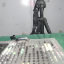
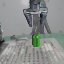
support dynamic bg updating

diff --git a/mujoco_playground/_src/wrapper_torch.py b/mujoco_playground/_src/wrapper_torch.py
@@ -17,9 +17,11 @@
 from collections import deque
 import functools
 import os
+import tempfile
 from typing import Any
 
 import jax
+import mujoco
 import numpy as np
 
 try:
@@ -96,6 +98,7 @@ class RSLRLBraxWrapper(VecEnv):
       randomization_fn=None,
       render_callback=None,
       device_rank=None,
+      full_reset: bool | None = None,
   ):
     import torch  # pytype: disable=import-error # pylint: disable=redefined-outer-name,unused-import,import-outside-toplevel
 
@@ -125,11 +128,32 @@ class RSLRLBraxWrapper(VecEnv):
     else:
       v_randomization_fn = None
 
+    # NOTE on memory: BraxAutoResetWrapper(full_reset=True) computes env.reset
+    # for the entire batch on every step, then selects reset_state for done envs.
+    # That can substantially increase peak JAX GPU memory (often enough to OOM).
+    # So we only enable full_reset by default when it's actually needed.
+    if full_reset is None:
+      needs_full_reset = False
+      try:
+        c = env.unwrapped._config
+        if hasattr(c, 'vision_config'):
+          # dynamic_bg relies on per-episode camera randomization being applied
+          # on auto-reset for done envs.
+          needs_full_reset = bool(getattr(c.vision_config, 'dynamic_bg', False))
+          # Allow explicit override via config.
+          if getattr(c.vision_config, 'full_reset', None) is not None:
+            needs_full_reset = bool(c.vision_config.full_reset)
+      except Exception:
+        needs_full_reset = False
+
+      full_reset = bool(randomization_fn is not None and needs_full_reset)
+
     self.env = wrapper.wrap_for_brax_training(
         env,
         episode_length=episode_length,
         action_repeat=action_repeat,
         randomization_fn=v_randomization_fn,
+        full_reset=full_reset,
     )
 
     self.render_callback = render_callback
@@ -247,6 +271,45 @@ def create_rgb_image(num, rgb_color, image_size):
 class BatchSplatWrapper(RSLRLBraxWrapper):
   """Wrapper for Brax environments that interop with torch and use 3DGS BatchSplatRenderer."""
 
+  def _ensure_nonempty_body_gaussians(
+      self, mj_model, body_gaussians, *, purpose: str, warn: bool = True
+  ):
+    if body_gaussians:
+      return body_gaussians
+
+    # gaussian_renderer expects at least one gaussian; provide an invisible dummy.
+    target_body = mujoco.mj_id2name(mj_model, mujoco.mjtObj.mjOBJ_BODY, 0)  # world
+
+    with tempfile.NamedTemporaryFile(suffix=".ply", mode="w", delete=False) as f:
+      f.write("ply\n")
+      f.write("format ascii 1.0\n")
+      f.write("element vertex 1\n")
+      f.write("property float x\n")
+      f.write("property float y\n")
+      f.write("property float z\n")
+      f.write("property float f_dc_0\n")
+      f.write("property float f_dc_1\n")
+      f.write("property float f_dc_2\n")
+      f.write("property float opacity\n")
+      f.write("property float scale_0\n")
+      f.write("property float scale_1\n")
+      f.write("property float scale_2\n")
+      f.write("property float rot_0\n")
+      f.write("property float rot_1\n")
+      f.write("property float rot_2\n")
+      f.write("property float rot_3\n")
+      f.write("end_header\n")
+      # opacity=0 => invisible
+      f.write("0 0 0 0 0 0 0 0.01 0.01 0.01 1 0 0 0\n")
+      temp_ply_path = f.name
+
+    if warn:
+      print(
+        f"Warning: body_gaussians is empty for {purpose}. "
+        f"Using invisible dummy gaussian at {temp_ply_path} attached to body '{target_body}'."
+      )
+    return {target_body: temp_ply_path}
+
   def __init__(
       self,
       env,
@@ -257,6 +320,7 @@ class BatchSplatWrapper(RSLRLBraxWrapper):
       randomization_fn=None,
       render_callback=None,
       device_rank=None,
+      full_reset: bool | None = None,
   ):
     super().__init__(
         env,
@@ -267,6 +331,7 @@ class BatchSplatWrapper(RSLRLBraxWrapper):
         randomization_fn,
         render_callback,
         device_rank,
+        full_reset,
     )
     self._init_renderer()
 
@@ -279,18 +344,24 @@ class BatchSplatWrapper(RSLRLBraxWrapper):
     background_ply = None
     bg_img_template = None
 
+    self.dynamic_bg = False
+    self.pixels_uint8 = False
+
     if hasattr(self.env.unwrapped, '_config'):
       c = self.env.unwrapped._config
       if hasattr(c, 'vision_config'):
         self.height = c.vision_config.render_height
         self.width = c.vision_config.render_width
+        self.dynamic_bg = bool(getattr(c.vision_config, 'dynamic_bg', False))
+        self.pixels_uint8 = bool(getattr(c.vision_config, 'pixels_uint8', False))
+        background_ply = getattr(c.vision_config, 'background', None)
         if hasattr(c.vision_config, 'body_gaussians'):
           body_gaussians = c.vision_config.body_gaussians
           if hasattr(body_gaussians, 'to_dict'):
             body_gaussians = body_gaussians.to_dict()
         else:
           raise ValueError("BatchSplatWrapper requires body_gaussians in vision_config.")
-        if getattr(c.vision_config, 'bg_img', None) is not None:
+        if (not self.dynamic_bg) and getattr(c.vision_config, 'bg_img', None) is not None:
           bg = c.vision_config.bg_img
           if isinstance(bg, tuple):
             bg = create_rgb_image(mj_model.ncam, bg, (self.height, self.width))
@@ -317,18 +388,74 @@ class BatchSplatWrapper(RSLRLBraxWrapper):
           
           bg_img_template = bg
 
-    cfg = BatchSplatConfig(
-      body_gaussians=body_gaussians,
-      background_ply=getattr(c.vision_config, 'background', None),
-      minibatch=min(self.batch_size, int(256 // mj_model.ncam)) #256
+    if self.dynamic_bg and background_ply is None:
+      raise ValueError(
+          "vision_config.dynamic_bg=True requires vision_config.background to be set "
+          "(a background .ply used to re-render bg each reset)."
+      )
+
+    fg_body_gaussians = self._ensure_nonempty_body_gaussians(
+        mj_model, body_gaussians, purpose="foreground renderer"
     )
-    self.renderer = MjxBatchSplatRenderer(cfg, mj_model=mj_model)
+    # # Important for VRAM: background_ply can be large. If we're using a static
+    # # image background (bg_img) and dynamic_bg is off, we should not also load
+    # # the 3DGS background ply into the foreground renderer.
+    # using_static_bg_img = (not self.dynamic_bg) and (bg_img_template is not None)
+    # if self.dynamic_bg:
+    #   fg_background_ply = None
+    # else:
+    #   fg_background_ply = None if using_static_bg_img else background_ply
+    fg_background_ply = None if self.dynamic_bg else background_ply
+    fg_cfg = BatchSplatConfig(
+        body_gaussians=fg_body_gaussians,
+        background_ply=fg_background_ply,
+        minibatch=min(self.batch_size, int(256 // mj_model.ncam)),
+    )
+    self.renderer_fg = MjxBatchSplatRenderer(fg_cfg, mj_model=mj_model)
+    self.renderer = self.renderer_fg
     self.fovy_np = np.array(mj_model.cam_fovy)[None, :]
 
-    if bg_img_template is not None:
-      self.bg_img = bg_img_template.to(self.renderer.device).unsqueeze(0).expand(self.batch_size, -1, -1, -1, -1).contiguous()
+    self.renderer_bg = None
+    if self.dynamic_bg:
+      bg_body_gaussians = self._ensure_nonempty_body_gaussians(
+        mj_model, {}, purpose="background renderer", warn=False
+      )
+      bg_cfg = BatchSplatConfig(
+          body_gaussians=bg_body_gaussians,
+          background_ply=background_ply,
+          minibatch=min(self.batch_size, int(256 // mj_model.ncam)),
+      )
+      self.renderer_bg = MjxBatchSplatRenderer(bg_cfg, mj_model=mj_model)
+
+    # Background image storage strategy:
+    # - dynamic_bg=True: per-env bg is required (camera pose may differ per env);
+    #   keep a batched float32 tensor.
+    # - dynamic_bg=False: bg is static; store only per-camera and broadcast at
+    #   render time to avoid an always-resident (B,ncam,H,W,3) allocation.
+    if self.dynamic_bg:
+      self.bg_img = torch.zeros(
+          (self.batch_size, mj_model.ncam, self.height, self.width, 3),
+          dtype=torch.float32,
+          device=self.renderer_fg.device,
+      )
+      self.bg_img_camera = None
     else:
-      self.bg_img = torch.zeros((self.batch_size, mj_model.ncam, self.height, self.width, 3), dtype=torch.float32, device=self.renderer.device)
+      if bg_img_template is not None:
+        self.bg_img_camera = bg_img_template.to(self.renderer_fg.device)
+      else:
+        self.bg_img_camera = torch.zeros(
+            (mj_model.ncam, self.height, self.width, 3),
+            dtype=torch.float32,
+            device=self.renderer_fg.device,
+        )
+      self.bg_img = None
+
+    if self.dynamic_bg:
+      self._bg_img_base = torch.zeros(
+          (self.batch_size, mj_model.ncam, self.height, self.width, 3),
+          dtype=torch.float32,
+          device=self.renderer_bg.device,
+      )
 
   def step(self, action):
     action = torch.clip(action, -1.0, 1.0)
@@ -340,9 +467,41 @@ class BatchSplatWrapper(RSLRLBraxWrapper):
     b_quat = _jax_to_torch(self.env_state.data.xquat)
     c_pos = _jax_to_torch(self.env_state.data.cam_xpos)
     c_xmat = _jax_to_torch(self.env_state.data.cam_xmat)
+
+    # If BraxAutoResetWrapper performed a full reset on done, the returned
+    # state.data for done envs is already the reset state with re-randomized
+    # camera pose. Refresh background for those envs to keep bg/fg consistent.
+    if self.dynamic_bg:
+      done_torch = _jax_to_torch(self.env_state.done).to(torch.bool)
+      if done_torch.any():
+        gsb_bg = self.renderer_bg.batch_update_gaussians(b_pos, b_quat)
+        bg_rgb, _ = self.renderer_bg.batch_env_render(
+            gsb_bg,
+            c_pos,
+            c_xmat,
+            self.height,
+            self.width,
+            self.fovy_np,
+            self._bg_img_base,
+        )
+        mask = done_torch.view(-1, 1, 1, 1, 1).to(bg_rgb.device)
+        # Only overwrite backgrounds for envs that ended this step.
+        self.bg_img = torch.where(mask, bg_rgb, self.bg_img)
     
-    gsb = self.renderer.batch_update_gaussians(b_pos, b_quat)
-    rgb, _ = self.renderer.batch_env_render(gsb, c_pos, c_xmat, self.height, self.width, self.fovy_np, self.bg_img)
+    gsb = self.renderer_fg.batch_update_gaussians(b_pos, b_quat)
+    if self.dynamic_bg:
+      bg_img = self.bg_img
+    else:
+      bg_img = self.bg_img_camera.unsqueeze(0).expand(
+          self.batch_size, -1, -1, -1, -1
+      )
+    rgb, _ = self.renderer_fg.batch_env_render(
+      gsb, c_pos, c_xmat, self.height, self.width, self.fovy_np, bg_img
+    )
+
+    rgb_obs = rgb
+    if self.pixels_uint8:
+      rgb_obs = (rgb_obs.clamp(0.0, 1.0) * 255.0).to(torch.uint8)
     
     # Construct observations
     critic_obs = None
@@ -359,12 +518,12 @@ class BatchSplatWrapper(RSLRLBraxWrapper):
     # RSL-RL usually expects a dict for complex obs.
     if isinstance(obs, dict):
       for i in range(self.env.mj_model.ncam):
-        obs[f'pixels/view_{i}'] = rgb[:, i]
+        obs[f'pixels/view_{i}'] = rgb_obs[:, i]
     else:
       # If obs was a tensor, convert to dict to add pixels
       obs = {"state": obs}
       for i in range(self.env.mj_model.ncam):
-        obs[f'pixels/view_{i}'] = rgb[:, i]
+        obs[f'pixels/view_{i}'] = rgb_obs[:, i]
 
     reward = _jax_to_torch(self.env_state.reward)
     done = _jax_to_torch(self.env_state.done)
@@ -405,10 +564,33 @@ class BatchSplatWrapper(RSLRLBraxWrapper):
     c_pos = _jax_to_torch(self.env_state.data.cam_xpos)
     c_xmat = _jax_to_torch(self.env_state.data.cam_xmat)
     
-    gsb = self.renderer.batch_update_gaussians(b_pos, b_quat)
-    fovy = np.array(self.env.mj_model.cam_fovy)[None, :]
-    
-    rgb, _ = self.renderer.batch_env_render(gsb, c_pos, c_xmat, self.height, self.width, fovy, self.bg_img)
+    if self.dynamic_bg:
+      gsb_bg = self.renderer_bg.batch_update_gaussians(b_pos, b_quat)
+      bg_rgb, _ = self.renderer_bg.batch_env_render(
+        gsb_bg,
+        c_pos,
+        c_xmat,
+        self.height,
+        self.width,
+        self.fovy_np,
+        self._bg_img_base,
+      )
+      self.bg_img = bg_rgb
+
+    gsb = self.renderer_fg.batch_update_gaussians(b_pos, b_quat)
+    if self.dynamic_bg:
+      bg_img = self.bg_img
+    else:
+      bg_img = self.bg_img_camera.unsqueeze(0).expand(
+          self.batch_size, -1, -1, -1, -1
+      )
+    rgb, _ = self.renderer_fg.batch_env_render(
+      gsb, c_pos, c_xmat, self.height, self.width, self.fovy_np, bg_img
+    )
+
+    rgb_obs = rgb
+    if self.pixels_uint8:
+      rgb_obs = (rgb_obs.clamp(0.0, 1.0) * 255.0).to(torch.uint8)
 
     if self.asymmetric_obs:
       obs = _jax_to_torch(self.env_state.obs["state"])
@@ -421,10 +603,10 @@ class BatchSplatWrapper(RSLRLBraxWrapper):
     # Add pixels to observation
     if isinstance(obs, dict):
       for i in range(self.env.mj_model.ncam):
-        obs[f'pixels/view_{i}'] = rgb[:, i]
+        obs[f'pixels/view_{i}'] = rgb_obs[:, i]
     else:
       obs = {"state": obs}
       for i in range(self.env.mj_model.ncam):
-        obs[f'pixels/view_{i}'] = rgb[:, i]
+        obs[f'pixels/view_{i}'] = rgb_obs[:, i]
             
     return TensorDict(obs, batch_size=[self.num_envs])

diff --git a/learning/train_rsl_rl.py b/learning/train_rsl_rl.py
@@ -186,6 +186,7 @@ def configure_3dgs(env_cfg: config_dict.ConfigDict, env_name: str, num_envs: int
   env_cfg.vision_config.render_batch_size = num_envs
   env_cfg.vision_config.render_width = 64
   env_cfg.vision_config.render_height = 64
+  env_cfg.vision_config.dynamic_bg = _USE_BG.value
   
   from mujoco_playground._src import mjx_env
   from ml_collections import ConfigDict
@@ -211,13 +212,18 @@ def configure_3dgs(env_cfg: config_dict.ConfigDict, env_name: str, num_envs: int
   assets_path = mjx_env.ROOT_PATH / "manipulation" / assets_name / "3dgs"
   print(f"3DGS assets path: {assets_path.as_posix()}")
 
+  # Always keep a background 3DGS available so we can re-render bg per-reset
+  # after camera domain randomization.
+  env_cfg.vision_config.background = (assets_path / background_name).as_posix()
+
   if _USE_BG.value:
     if not os.path.exists(background_image_dir):
       raise ValueError(f"Background image directory '{background_image_dir}' does not exist.")
+    # If you still want to use pre-rendered bg images, set dynamic_bg=False.
+    # With dynamic_bg=True, BatchSplatWrapper will ignore this and regenerate bg.
     bg_img = background_image_dir
   else:
     bg_img = (1, 1, 1)
-    env_cfg.vision_config.background = (assets_path / background_name).as_posix()
   env_cfg.vision_config.bg_img = bg_img
   if _SAVE_BG.value:
     body_gaussians = {}
@@ -250,8 +256,8 @@ def main(argv):
     device_rank = int(device.split(":")[-1]) if "cuda" in device else 0
 
   # If play-only, use fewer envs
-  if _PLAY_ONLY.value:    
-      num_envs = min(64, _NUM_ENVS.value) if _VISION.value else 1
+  if _PLAY_ONLY.value:
+      num_envs = min(32, _NUM_ENVS.value) if _VISION.value else 1
   else:
     num_envs = _NUM_ENVS.value
 

diff --git a/mujoco_playground/_src/manipulation/airbot_play/pick.py b/mujoco_playground/_src/manipulation/airbot_play/pick.py
@@ -15,10 +15,14 @@ import numpy as np
 
 def default_vision_config() -> config_dict.ConfigDict:
   return config_dict.create(
-      render_batch_size=1024,
-      render_width=64,
-      render_height=64,
-    #   bg_img=(1, 1, 1),
+    render_batch_size=1024,
+    render_width=64,
+    render_height=64,
+    # When True, BatchSplatWrapper re-renders background each reset using
+    # `vision_config.background` and the randomized camera pose.
+    dynamic_bg=True,
+    # bg_img can still be provided for static backgrounds when dynamic_bg=False.
+    # bg_img=(1, 1, 1),
   )
 
 
